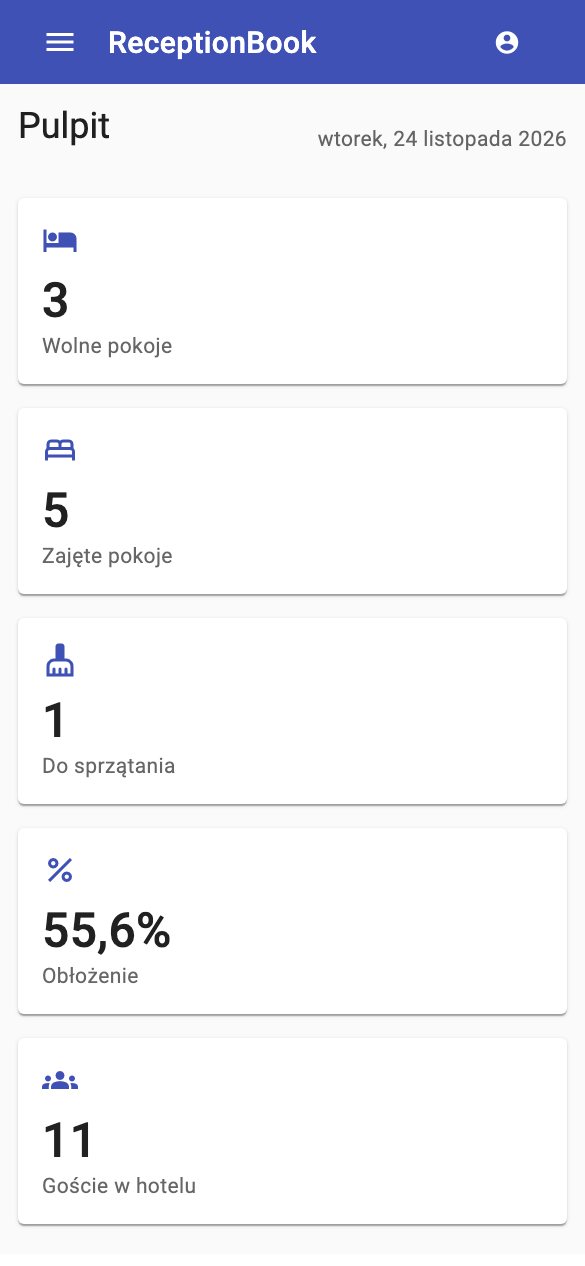
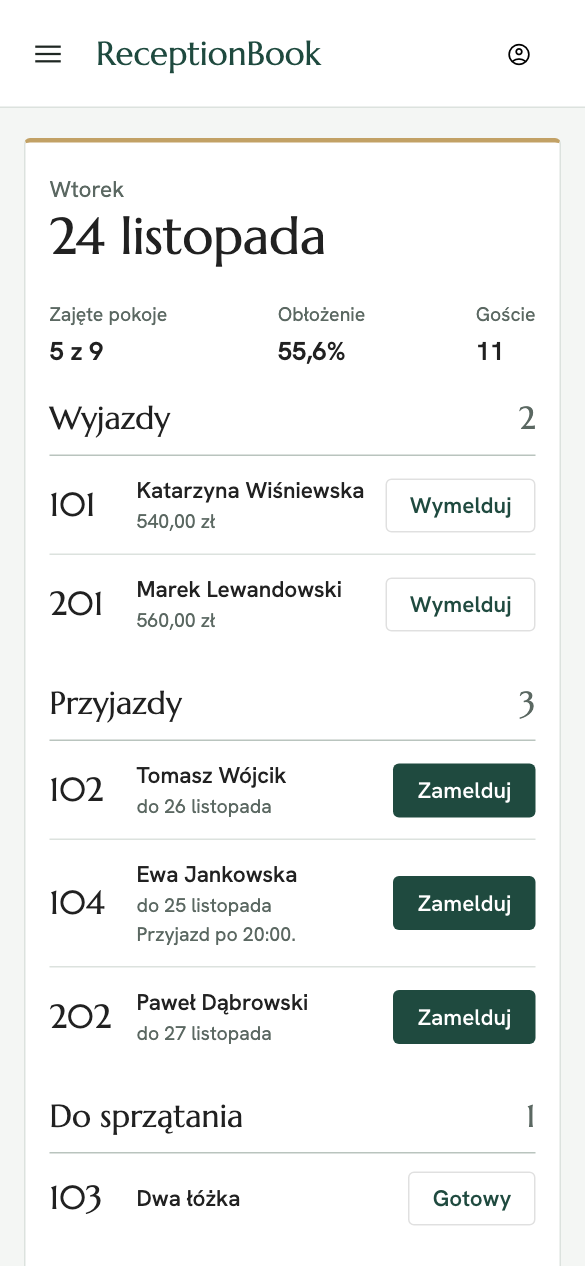
Update the description and screenshots after the redesign

diff --git a/README.md b/README.md
@@ -6,16 +6,19 @@ has to be done today and makes sure that no room is booked twice.
 The project was created as part of the engineering thesis
 *„Architektura i bezpieczeństwo nowoczesnych aplikacji internetowych na przykładzie aplikacji ReceptionBook”*.
 
-![Dashboard with room statistics, today's arrivals and departures](docs/screenshots/dashboard.png)
+![Room chart with stays as bars and today's departures, arrivals and rooms to clean](docs/screenshots/dashboard.png)
 
 ## What the application does
 
 The user interface is in Polish. The screenshots show demo data with fictional guests.
 
-### Start of the day
+### Room chart
 
-The dashboard (above) shows how many rooms are free, occupied or waiting for cleaning, the occupancy rate and the number
-of guests in the hotel. Below are today's arrivals and departures, with check-in and check-out one click away.
+The home page (above) shows every room in the coming days. Stays are bars, so free periods are visible at a glance, and
+a bar opens its reservation. The chart moves by a week and shows 14 days, or 7 on a phone.
+
+Next to it is the work for today: departures, arrivals and rooms to clean, with the actions one click away. A guest
+cannot be checked in while the room is still occupied or waiting for cleaning.
 
 ### Booking a stay
 
@@ -53,7 +56,7 @@ cannot be deleted.
 
 | | Receptionist | Administrator |
 | --- | :---: | :---: |
-| Dashboard, reservations, check-in and check-out | ✓ | ✓ |
+| Room chart, reservations, check-in and check-out | ✓ | ✓ |
 | Adding and editing guests, changing the status of a room | ✓ | ✓ |
 | Adding, editing and deleting rooms | | ✓ |
 | Deleting guests and reservations | | ✓ |
@@ -61,7 +64,7 @@ cannot be deleted.
 
 The layout also works on a phone:
 
-<img src="docs/screenshots/mobile.png" alt="Dashboard on a phone" width="260">
+<img src="docs/screenshots/mobile.png" alt="Today's departures and arrivals on a phone" width="260">
 
 ## Repository structure
 
